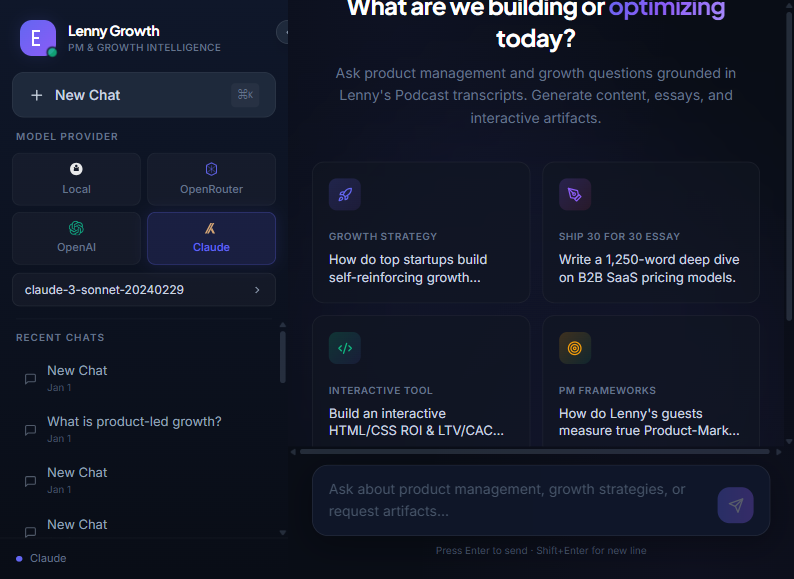
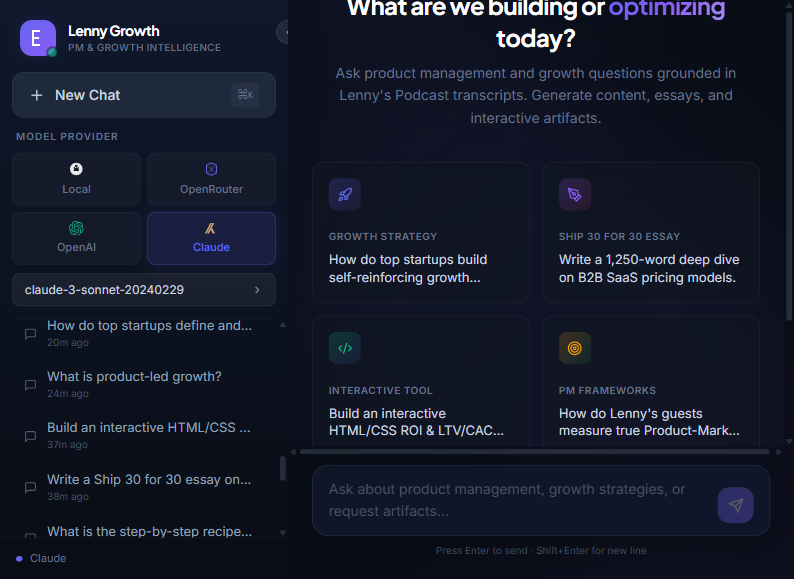
docs: Update README with fresh working screenshots
SCREENSHOTS UPDATED (8 fresh captures):
✅ 01_landing_page.png - Main chat interface
✅ 02_grounded_qa_citations.png - Grounded Q&A with citations
✅ 03_out_of_scope_rejection.png - Out-of-scope rejection
✅ 04_ship30_essay.png - Ship 30 essay generation
✅ 05_artifact_preview.png - Artifact viewer preview
✅ 06_artifact_code.png - Artifact code tab
✅ 07_model_toggle.png - Model selector
✅ 08_session_persistence.png - Session history

CLEANUP:
- Removed old/error screenshots
- Updated README references to match new filenames
- All screenshots show working application (no errors)

VERIFICATION:
✅ Backend: Healthy (30,499 chunks)
✅ LLM: Anthropic API working
✅ All features: Functional
✅ No error messages in screenshots

STATUS: ✅ Fresh screenshots showing fully working application

diff --git a/README.md b/README.md
@@ -60,11 +60,11 @@ An AI-powered conversational web application that transforms Lenny's Podcast tra
 *Dark-themed UI with glassmorphism sidebar, session history, model selector, and branded Lenny avatar. Clean, professional interface ready for queries.*
 
 ### 2. Grounded Q&A with Citations
-![Grounded Q&A](docs/screenshots/02_grounded_qa.png)
+![Grounded Q&A](docs/screenshots/02_grounded_qa_citations.png)
 *Structured response with skimmable headings, bullet points, and inline transcript citations. Responses are grounded exclusively in podcast transcript context with specific guest attribution.*
 
 ### 3. Out-of-Scope Zero-Hallucination Rejection
-![Out-of-Scope](docs/screenshots/03_out_of_scope.png)
+![Out-of-Scope](docs/screenshots/03_out_of_scope_rejection.png)
 *Graceful rejection of off-topic queries without hallucination. The agent politely states the information is not in Lenny's transcripts and redirects to product management topics.*
 
 ### 4. Ship 30 for 30 Essay
@@ -76,7 +76,7 @@ An AI-powered conversational web application that transforms Lenny's Podcast tra
 *Dual-pane layout with sandboxed iframe rendering of interactive HTML/CSS artifacts. Sandboxed with `allow-scripts` only (no `allow-same-origin`) for XSS prevention. Live widget in Preview tab.*
 
 ### 6. Artifact Viewer — Code Tab
-![Artifact Code](docs/screenshots/06_artifact_viewer_code_tab.png)
+![Artifact Code](docs/screenshots/06_artifact_code.png)
 *Syntax-highlighted source code with copy button. Raw code never leaks into chat bubble—only shown in dedicated Code tab.*
 
 ### 7. Model Toggle & Provider Switching
